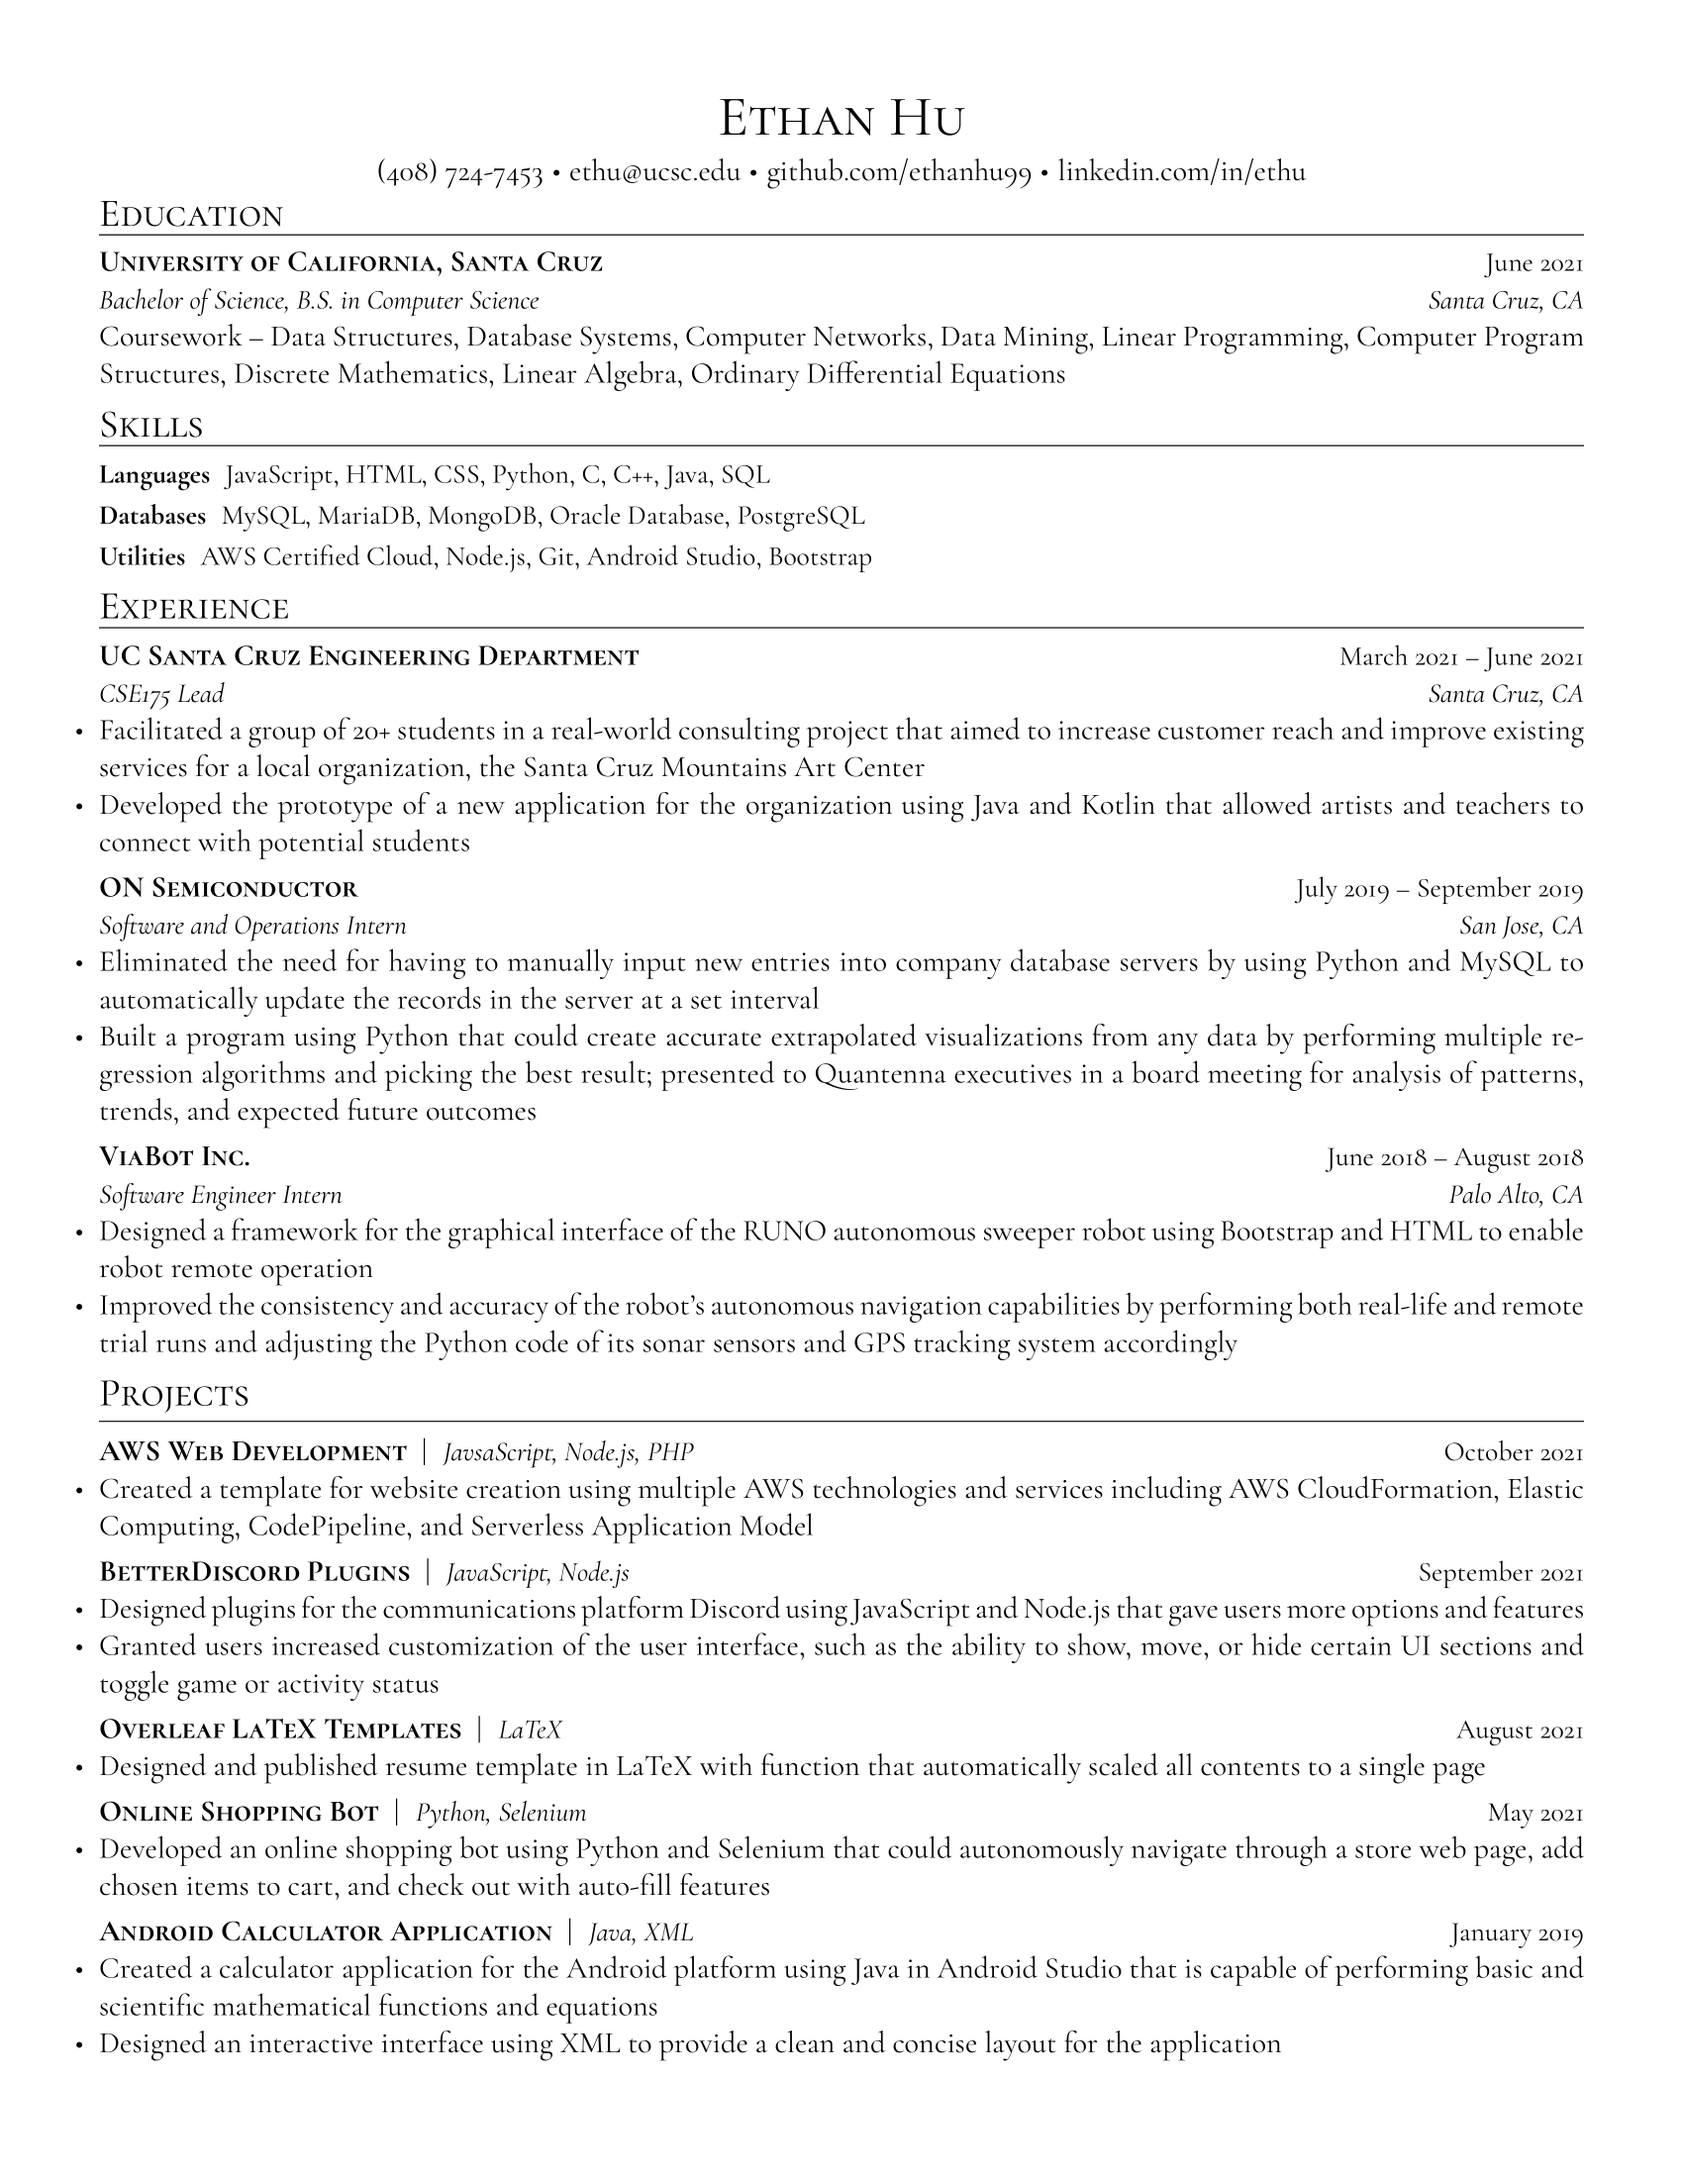
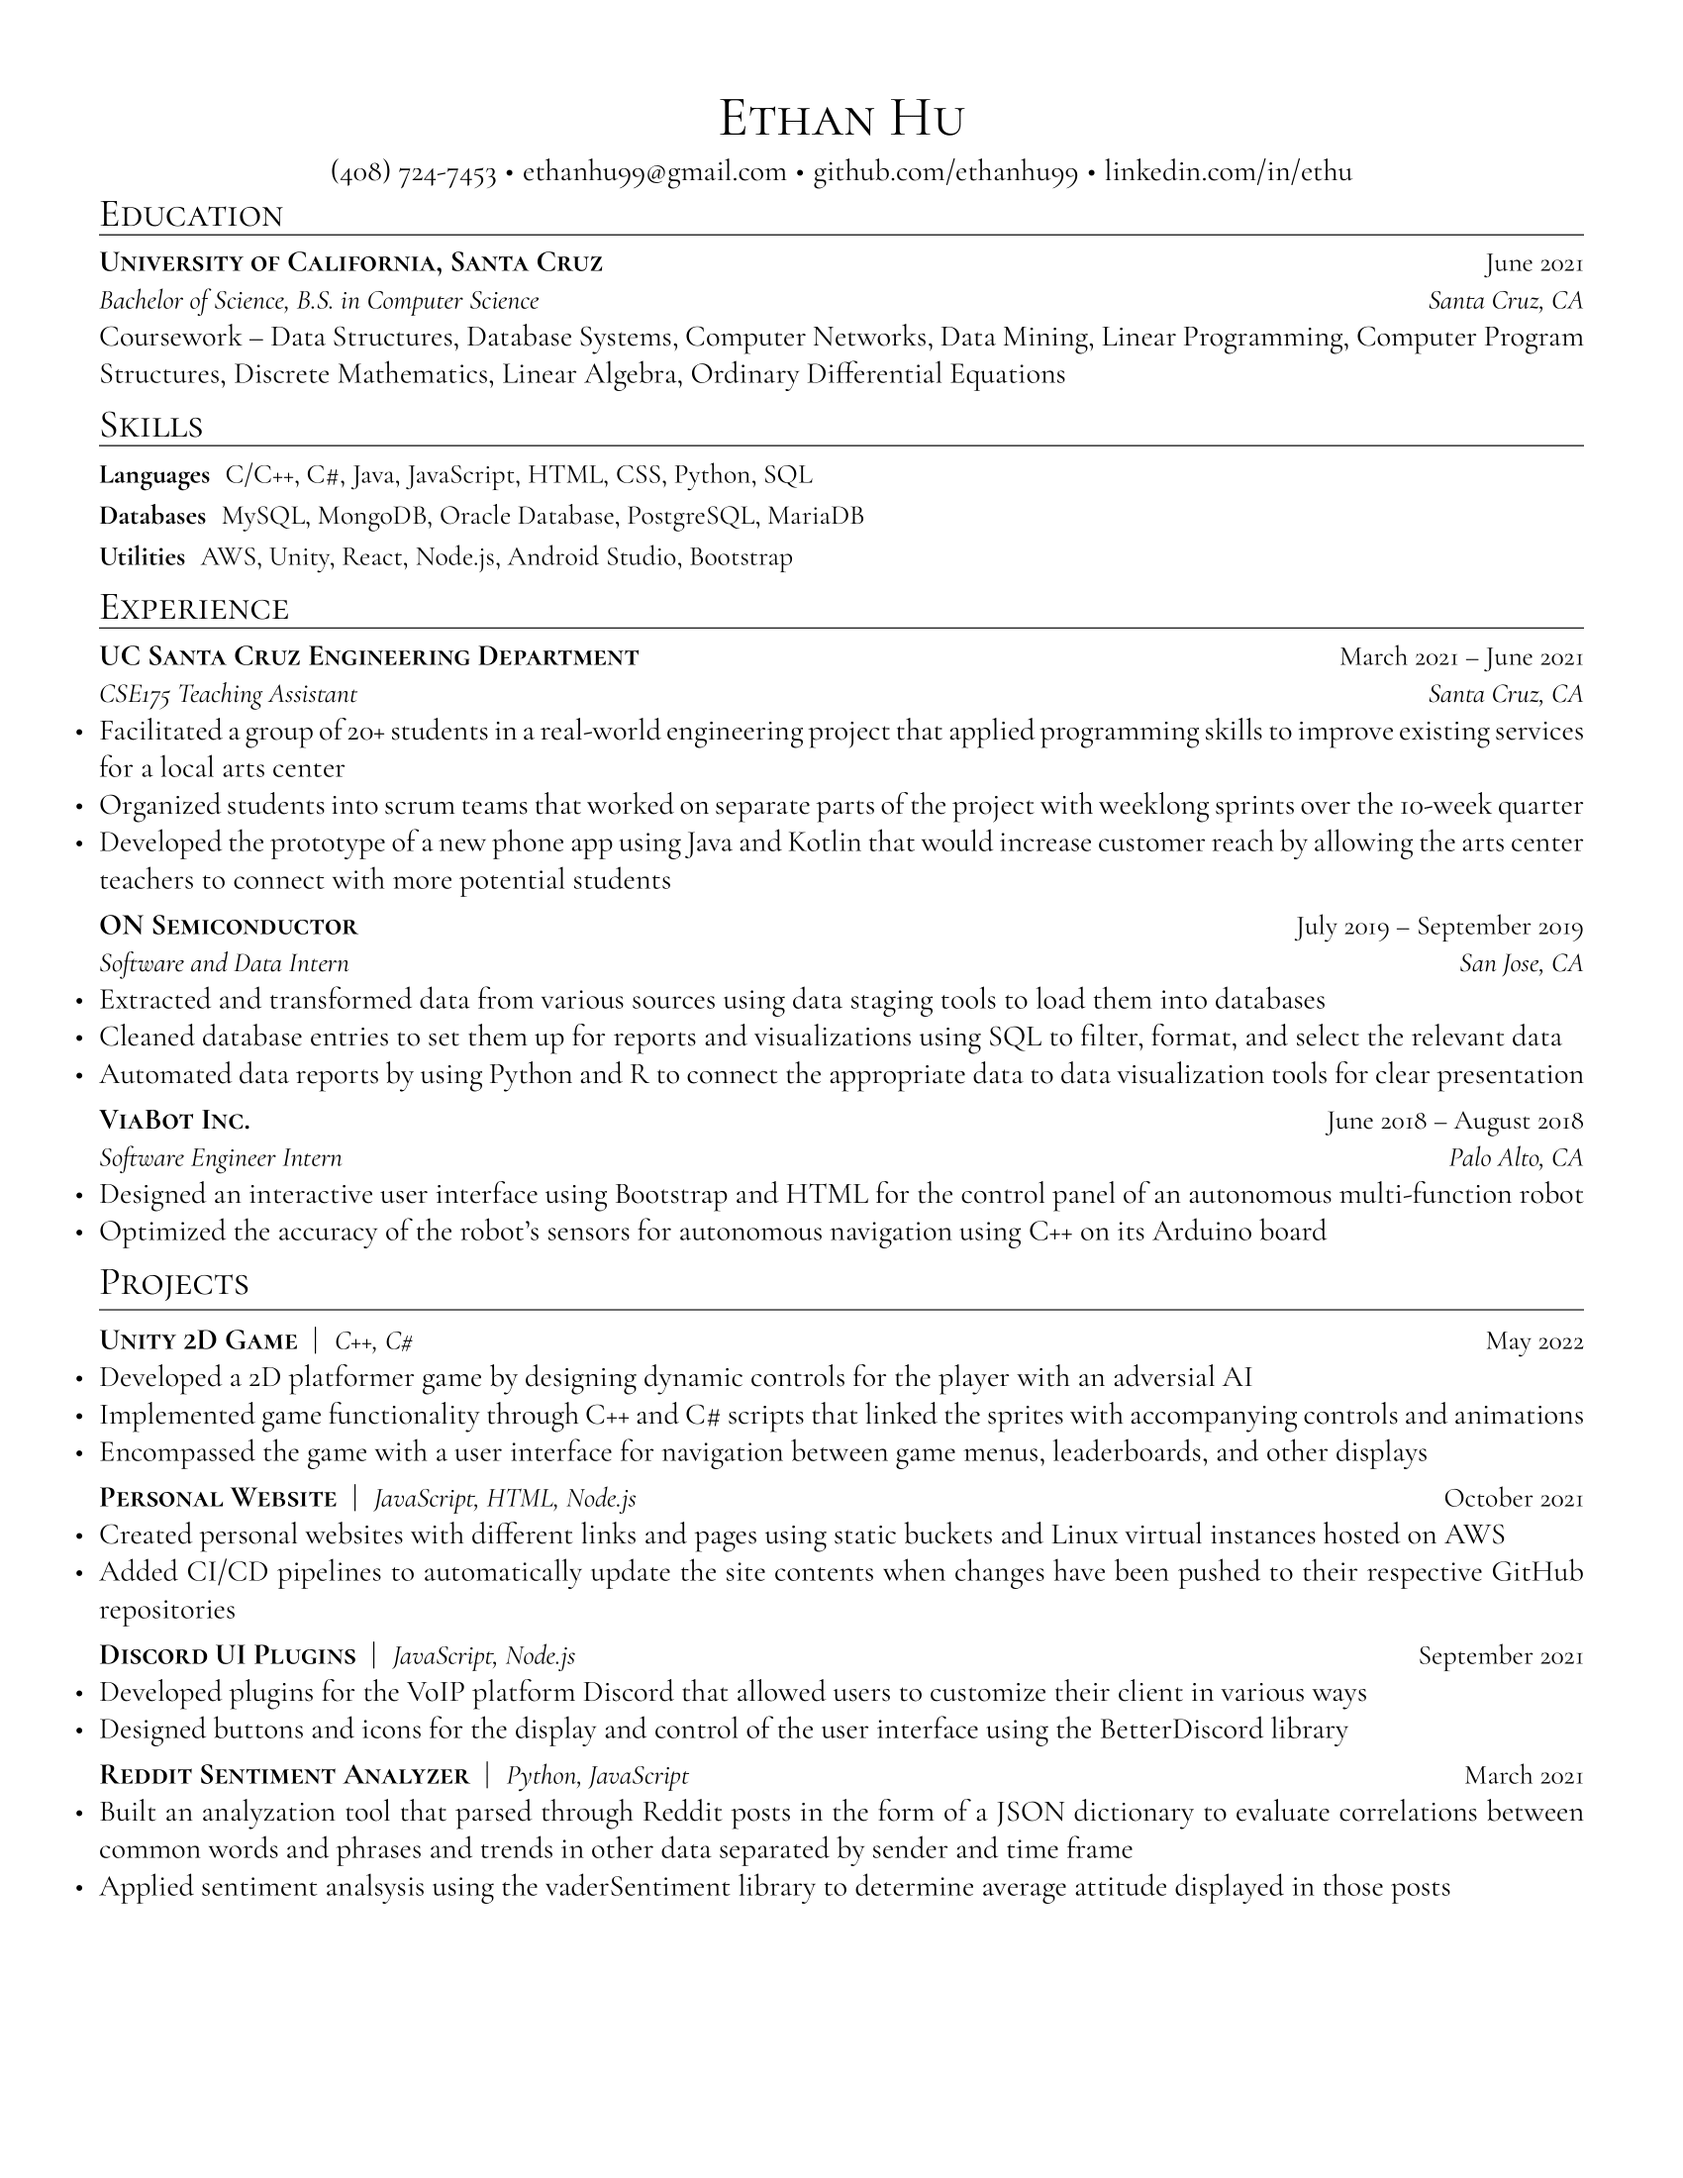
Update 8/11/22

diff --git a/ehu_cv.tex b/ehu_cv.tex
@@ -47,7 +47,7 @@
 %%  link: toggle URL/links colors
 %%      usage: link=(false),true
 
-\documentclass[11pt]{cv_template}
+\documentclass[11pt,fit=false]{cv_template}
 
 %%--------------------------------------------------------------------
 %%  RESUME START
@@ -64,7 +64,7 @@
 \begin{cvheader}
 {Ethan Hu}
 {(408) 724-7453}
-{ethu@ucsc.edu}
+{ethanhu99@gmail.com}
 {github.com/ethanhu99}
 {}
 {linkedin.com/in/ethu}
@@ -106,9 +106,9 @@
 
 \begin{cvsection}{Skills}
 
-\descitem[Languages] JavaScript, HTML, CSS, Python, C, C++, Java, SQL
-\descitem[Databases] MySQL, MariaDB, MongoDB, Oracle Database, PostgreSQL
-\descitem[Utilities] AWS Certified Cloud, Node.js, Git, Android Studio, Bootstrap
+\descitem[Languages] C/C++, C\#, Java, JavaScript, HTML, CSS, Python, SQL
+\descitem[Databases] MySQL, MongoDB, Oracle Database, PostgreSQL, MariaDB
+\descitem[Utilities] AWS, Unity, React, Node.js, Android Studio, Bootstrap
 
 \end{cvsection}
 
@@ -121,20 +121,26 @@
 %%------------------------------------------------
 
 \begin{cvsubsection}
-{UC Santa Cruz Engineering Department}{March 2021 -- June 2021}{CSE175 Lead}{Santa Cruz, CA}
+{UC Santa Cruz Engineering Department}{March 2021 -- June 2021}{CSE175 Teaching Assistant}{Santa Cruz, CA}
 
-\listitem Facilitated a group of 20+ students in a real-world consulting project that aimed to increase customer reach and improve existing services for a local organization, the Santa Cruz Mountains Art Center
-\listitem Developed the prototype of a new application for the organization using Java and Kotlin that allowed artists and teachers to connect with potential students
+\listitem Facilitated a group of 20+ students in a real-world engineering project that applied programming skills to improve existing services for a local arts center
+\listitem Organized students into scrum teams that worked on separate parts of the project with weeklong sprints over the 10-week quarter
+\listitem Developed the prototype of a new phone app using Java and Kotlin that would increase customer reach by allowing the arts center teachers to connect with more potential students
+
 
 \end{cvsubsection}
 
 %%------------------------------------------------
 
 \begin{cvsubsection}
-{ON Semiconductor}{July 2019 -- September 2019}{Software and Operations Intern}{San Jose, CA}
+{ON Semiconductor}{July 2019 -- September 2019}{Software and Data Intern}{San Jose, CA}
 
-\listitem Eliminated the need for having to manually input new entries into company database servers by using Python and MySQL to automatically update the records in the server at a set interval
-\listitem Built a program using Python that could create accurate extrapolated visualizations from any data by performing multiple regression algorithms and picking the best result; presented to Quantenna executives in a board meeting for analysis of patterns, trends, and expected future outcomes
+\listitem Extracted and transformed data from various sources using data staging tools to load them into databases
+\listitem Cleaned database entries to set them up for reports and visualizations using SQL to filter, format, and select the relevant data
+\listitem Automated data reports by using Python and R to connect the appropriate data to data visualization tools for clear presentation
+% \listitem Eliminated the need for having to manually input new entries into company database servers by using Python and MySQL to automatically update the records in the server at a set interval
+% \listitem Built a program using Python that could create accurate extrapolated visualizations from any data by performing multiple regression algorithms and picking the best result; presented to Quantenna executives in a board meeting for analysis of patterns, trends, and expected future outcomes
+% \listitem Debugged database by revising spreadsheet formulas to present more accurate predicti
 
 \end{cvsubsection}
 
@@ -143,8 +149,8 @@
 \begin{cvsubsection}
 {ViaBot Inc.}{June 2018 -- August 2018}{Software Engineer Intern}{Palo Alto, CA}
 
-\listitem Designed a framework for the graphical interface of the RUNO autonomous sweeper robot using Bootstrap and HTML to enable robot remote operation
-\listitem Improved the consistency and accuracy of the robot's autonomous navigation capabilities by performing both real-life and remote trial runs and adjusting the Python code of its sonar sensors and GPS tracking system accordingly
+\listitem Designed an interactive user interface using Bootstrap and HTML for the control panel of an autonomous multi-function robot
+\listitem Optimized the accuracy of the robot's sensors for autonomous navigation using C++ on its Arduino board
 
 \end{cvsubsection}
 
@@ -161,59 +167,87 @@
 %%------------------------------------------------
 
 \begin{cvsubsection}
-{AWS Website Development}{JavsaScript, Node.js, PHP}{October 2021}{}
+{Unity 2D Game}{C++, C\#}{May 2022}{}
 
-\listitem Created a template for website creation using multiple AWS technologies and services including CloudFormation, CloudFront, Elastic Computing (EC2), and Serverless Application Model (SAM)
-
-\end{cvsubsection}
-
-%%------------------------------------------------
-
-\begin{cvsubsection}
-{BetterDiscord UI Plugins}{JavaScript, Node.js}{September 2021}{}
-
-\listitem Designed plugins for the communications platform Discord using JavaScript and Node.js that gave users more options and features
-\listitem Granted users increased customization of the user interface, such as the ability to show, move, or hide certain UI sections and toggle game or activity status
+\listitem Developed a 2D platformer game by designing dynamic controls for the player with an adversial AI
+% \listitem Animated all sprites with accompanying controls and movements for fluid gameplay
+\listitem Implemented game functionality through C++ and C\# scripts that linked the sprites with accompanying controls and animations
+\listitem Encompassed the game with a user interface for navigation between game
+menus, leaderboards, and other displays
 
 \end{cvsubsection}
+
 
 %%------------------------------------------------
 
 % \begin{cvsubsection}
-% {Overleaf LaTeX Templates}{LaTeX}{August 2021}{}
+% {Custom 3D Printer Firmware}{C/C++}{February 2022}{}
 
-% \listitem Designed and published resume template in LaTeX with function that automatically scaled all contents to a single page
+% \listitem Adapted Marlin firmware package for use on personal 3D printer that includes customizable user interface and menu options
 
 % \end{cvsubsection}
 
 %%------------------------------------------------
 
 \begin{cvsubsection}
-{Online Shopping Bot}{Python, Selenium}{May 2021}{}
+{Personal Website}{JavaScript, HTML, Node.js}{October 2021}{}
 
-\listitem Developed an online shopping bot using Python and Selenium that could autonomously navigate through a store web page, add chosen items to cart, and check out with auto-fill features
+% \listitem Created a template for website creation using multiple AWS technologies and services including CloudFormation, CloudFront, Elastic Computing (EC2), and Serverless Application Model (SAM)
+\listitem Created personal websites with different links and pages using static buckets and Linux virtual instances hosted on AWS
+\listitem Added CI/CD pipelines to automatically update the site contents when changes have been pushed to their respective GitHub repositories
+
+\end{cvsubsection}
+
+%%------------------------------------------------
+
+\begin{cvsubsection}
+{Discord UI Plugins}{JavaScript, Node.js}{September 2021}{}
+
+\listitem Developed plugins for the VoIP platform Discord that allowed users to customize their client in various ways
+% \listitem Granted users increased customization of the user interface, such as the ability to show, move, or hide certain UI sections and toggle game or activity status
+\listitem Designed buttons and icons for the display and control of the user interface using the BetterDiscord library
+% \listitem Toggle Status - Adds a button that switches user game activity status on or off
+% \listitem Hide Side Bars - Adds a button that hides the left side bar in the client
 
 \end{cvsubsection}
 
 %%------------------------------------------------
 
 % \begin{cvsubsection}
-% {Reddit vs. GameStop Sentiment Analyzer}{Python, JSON}{March 2021}{}
+% {LaTeX Templates}{LaTeX}{August 2021}{}
 
-% \listitem  Developed an analyzation tool that aimed to reveal any trends between Reddit posts and GameStop share price by parsing through Reddit post history in the form of a JSON dictionary to evaluate common words and phrases
-% \listitem  Applied the VADER sentiment analysis algorithm using Python to determine if overall attitude towards GameStop on Reddit affected its share price
+% \listitem Designed and published resume template in LaTeX with scripts and settings that automatically adjusts spacing and text size to aesthetically fill out a single page
+
+% \end{cvsubsection}
+
+%%------------------------------------------------
+
+% \begin{cvsubsection}
+% {Online Shopping Bot}{Python, Selenium}{May 2021}{}
+
+% \listitem Developed an online shopping bot using Python and Selenium that could autonomously navigate through a store web page, add chosen items to cart, and check out with auto-fill features
 
 % \end{cvsubsection}
 
 %%------------------------------------------------
 
 \begin{cvsubsection}
-{Android Calculator Application}{Java, XML}{January 2019}{}
+{Reddit Sentiment Analyzer}{Python, JavaScript}{March 2021}{}
 
-\listitem Created a calculator application for the Android platform using Java in Android Studio that is capable of performing basic and scientific mathematical functions and equations
-\listitem Designed an interactive interface using XML to provide a clean and concise layout for the application
+\listitem  Built an analyzation tool that parsed through Reddit posts in the form of a JSON dictionary to evaluate correlations between common words and phrases and trends in other data separated by sender and time frame
+\listitem  Applied sentiment analsysis using the vaderSentiment library to determine average attitude displayed in those posts
 
 \end{cvsubsection}
+
+%%------------------------------------------------
+
+% \begin{cvsubsection}
+% {Android Calculator Application}{Java, XML}{January 2019}{}
+
+% \listitem Created a calculator application for the Android platform using Java in Android Studio that is capable of performing basic and scientific mathematical functions and equations
+% \listitem Designed an interactive interface using XML to provide a clean and concise layout for the application
+
+% \end{cvsubsection}
 
 %%------------------------------------------------
 
